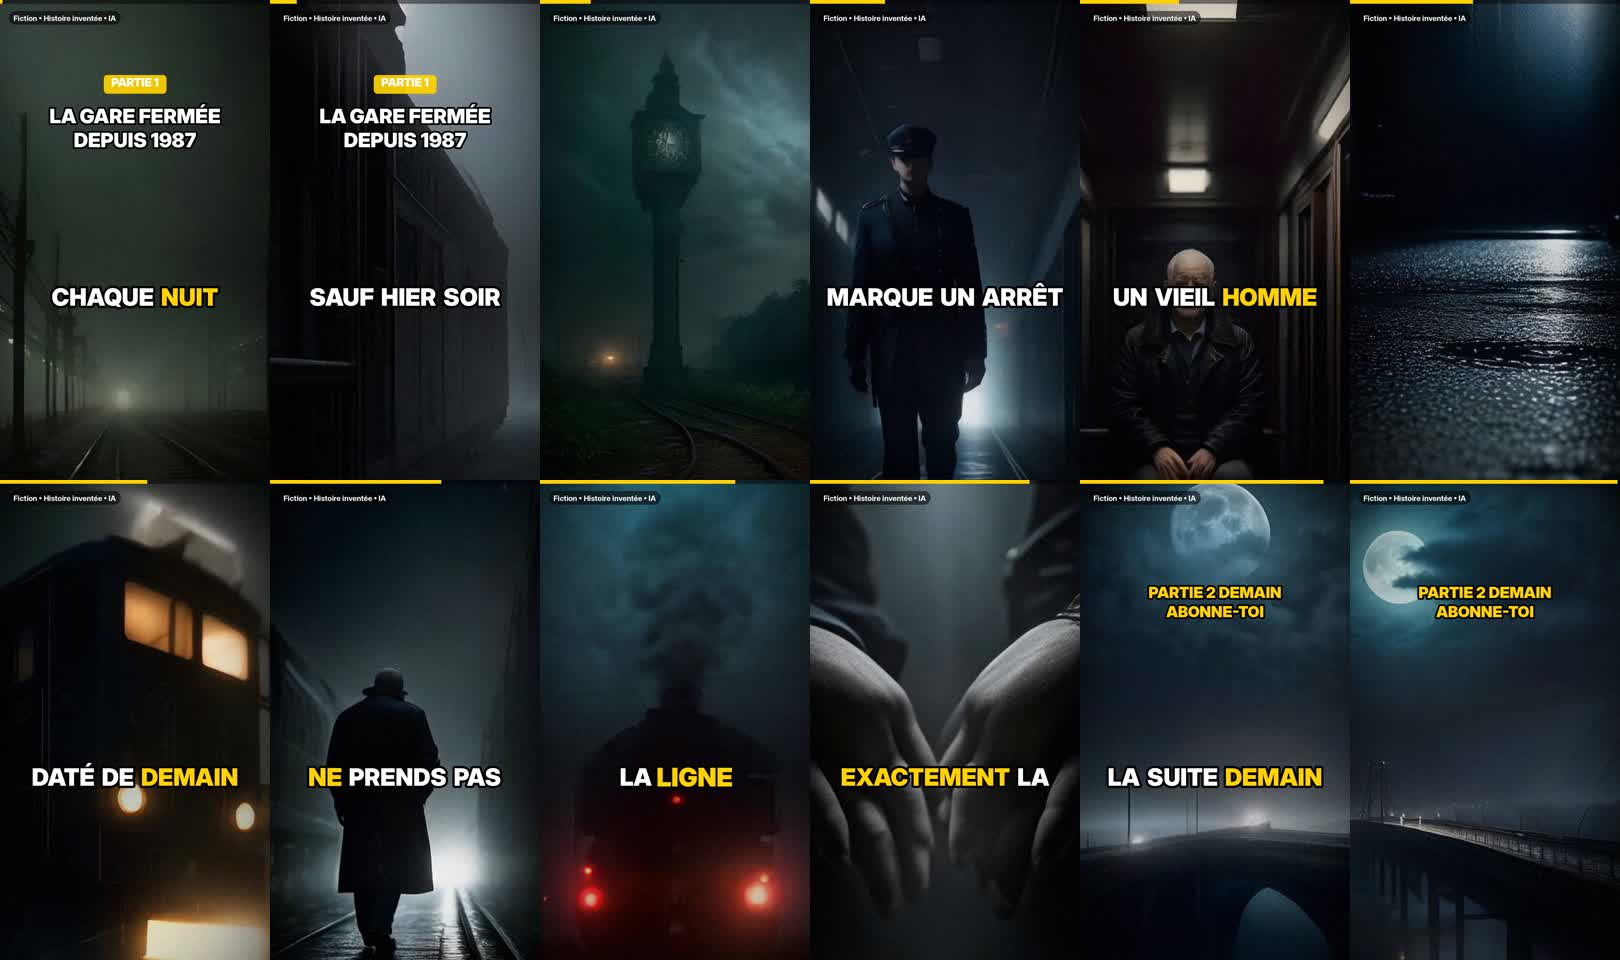
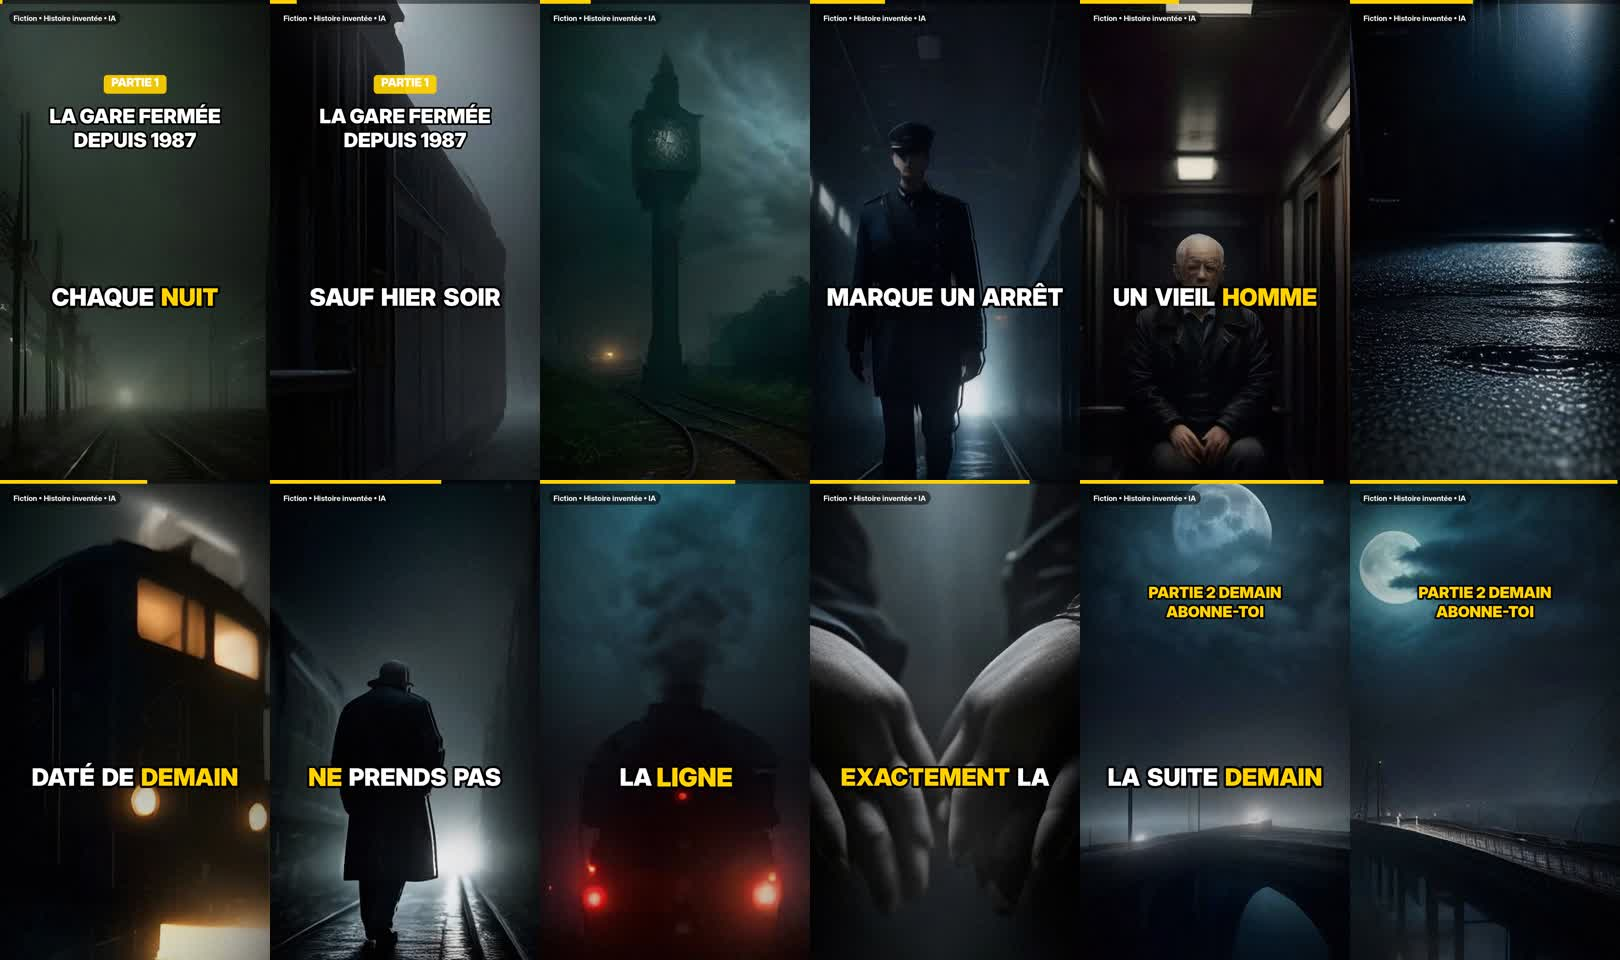
cycle 9: mouvement 3D (profondeur + parallaxe) dans le générateur, vidéos de demain reprogrammées
Claude-Session: https://claude.ai/code/session_01MTp3fYDJizbNruQ4hNct4W

diff --git a/tiktok-auto/generateur/generer.py b/tiktok-auto/generateur/generer.py
@@ -431,6 +431,58 @@ def ken_burns(im: Image.Image, p: float, idx: int) -> Image.Image:
     return im.transform((W, H), Image.AFFINE, (a, 0, x0, 0, a, y0), resample=Image.BICUBIC)
 
 
+# --------------------------------------------------------------------------------------
+# Mouvement 3D (parallaxe) : profondeur estimée par Depth Anything V2 (modèle libre, local, sans compte)
+# --------------------------------------------------------------------------------------
+def compute_depths(img_paths: list[str]) -> list[str | None]:
+    """Calcule une carte de profondeur (0 = loin, 1 = proche) par image. Repli : None (Ken Burns simple)."""
+    try:
+        from transformers import pipeline
+    except ImportError:
+        log("transformers/torch absents : mouvement 3D désactivé (pip install torch --index-url https://download.pytorch.org/whl/cpu transformers opencv-python-headless)")
+        return [None] * len(img_paths)
+    pipe = pipeline("depth-estimation", model="depth-anything/Depth-Anything-V2-Small-hf", device="cpu")
+    out = []
+    for ip in img_paths:
+        im = Image.open(ip).convert("RGB")
+        d = np.asarray(pipe(im.resize((im.width // 2, im.height // 2)))["depth"].resize(im.size, Image.BICUBIC), dtype=np.float32)
+        d = (d - d.min()) / (np.ptp(d) + 1e-6)
+        dp = ip.replace(".png", "_depth.npy")
+        np.save(dp, d.astype(np.float16))
+        out.append(dp)
+    return out
+
+
+def parallax(src: np.ndarray, depth: np.ndarray, p: float, idx: int) -> Image.Image:
+    """Vraie impression de mouvement de caméra : les plans proches bougent plus que le fond."""
+    import cv2
+
+    sh_, sw_ = depth.shape
+    rng = random.Random(idx * 7919)
+    e = 0.5 - 0.5 * math.cos(math.pi * p)
+    z = 1.0 + 0.05 * (e if idx % 2 == 0 else 1 - e)  # léger zoom global
+    ww = sw_ / z
+    a = ww / W
+    x0 = (sw_ - ww) / 2
+    y0 = (sh_ - H * a) / 2
+    if not hasattr(parallax, "grid"):
+        parallax.grid = np.mgrid[0:H, 0:W].astype(np.float32)
+    gy, gx = parallax.grid
+    bx = x0 + gx * a
+    by = y0 + gy * a
+    d = cv2.remap(depth, bx, by, cv2.INTER_LINEAR)
+    dirx = rng.choice([-1, 1]) * rng.uniform(0.6, 1.0)
+    diry = rng.uniform(-0.4, 0.4)
+    amp = 70.0  # pixels de décalage max pour le premier plan
+    push = 0.09 * e  # avancée de caméra (dolly) plus forte sur le premier plan
+    t_ = 2 * e - 1
+    cx, cy = sw_ / 2, sh_ / 2
+    mx = cx + (bx - cx) / (1 + push * d) - dirx * amp * t_ * (d - 0.4)
+    my = cy + (by - cy) / (1 + push * d) - diry * amp * t_ * (d - 0.4)
+    out = cv2.remap(src, mx, my, cv2.INTER_CUBIC, borderMode=cv2.BORDER_REFLECT)
+    return Image.fromarray(out)
+
+
 def draw_text_center(d: ImageDraw.ImageDraw, cx: int, y: int, text: str, f, fill, stroke=8, stroke_fill=(0, 0, 0)):
     bb = d.textbbox((0, 0), text, font=f, stroke_width=stroke)
     d.text((cx - (bb[2] - bb[0]) / 2 - bb[0], y - bb[1]), text, font=f, fill=fill, stroke_width=stroke, stroke_fill=stroke_fill)
@@ -539,6 +591,12 @@ def _render_range(args):
     frame_from, frame_to, ctx_path, out_path = args
     ctx = json.loads(Path(ctx_path).read_text())
     imgs = [Image.open(p) for p in ctx["img_paths"]]
+    arrs = [np.asarray(im.convert("RGB")) for im in imgs]
+    deps = [np.load(dp).astype(np.float32) if dp else None for dp in ctx.get("depth_paths", [None] * len(imgs))]
+
+    def move(i: int, p: float, idx: int) -> Image.Image:
+        return parallax(arrs[i], deps[i], p, idx) if deps[i] is not None else ken_burns(imgs[i], p, idx)
+
     vign = make_vignette()
     rng = np.random.default_rng(frame_from)
     grains = [rng.normal(0, 5, (H // 2, W // 2)).astype(np.float32) for _ in range(6)]
@@ -554,11 +612,11 @@ def _render_range(args):
         cur = next((i for i, s in enumerate(shots) if s["start"] <= t < s["end"]), len(shots) - 1)
         s = shots[cur]
         p = (t - s["start"]) / max(0.01, s["end"] - s["start"])
-        frame = ken_burns(imgs[s["img"]], p, cur)
+        frame = move(s["img"], p, cur)
         if cur > 0 and t - s["start"] < XFADE and shots[cur - 1]["img"] != s["img"]:
             pr = shots[cur - 1]
             pp = (t - pr["start"]) / max(0.01, pr["end"] - pr["start"])
-            prev = ken_burns(imgs[pr["img"]], min(1.0, pp), cur - 1)
+            prev = move(pr["img"], min(1.0, pp), cur - 1)
             frame = Image.blend(prev, frame, (t - s["start"]) / XFADE)
         arr = np.asarray(frame, dtype=np.float32)
         # légère respiration lumineuse
@@ -627,6 +685,8 @@ def main():
     with ThreadPoolExecutor(1) as ex:  # 1 seule requête à la fois (limite du service gratuit)
         img_paths = list(ex.map(_get, enumerate(keys)))
     log(f"{len(img_paths)} visuels prêts pour {len(shots)} plans")
+    depth_paths = compute_depths(img_paths) if story.get("mouvement_3d", True) else [None] * len(img_paths)
+    log("mouvement 3D : " + ("activé" if any(depth_paths) else "désactivé"))
 
     accent = story.get("couleur", [255, 210, 0])
     serie = story.get("serie")
@@ -634,6 +694,7 @@ def main():
     ctx = {
         "segs": [{k: v for k, v in s.items() if k not in ("texte", "voix", "visuels")} for s in segs],
         "shots": shots,
+        "depth_paths": depth_paths,
         "chunks": group_words(words),
         "total": total,
         "img_paths": img_paths,

diff --git a/tiktok-auto/outils/publier.py b/tiktok-auto/outils/publier.py
@@ -181,14 +181,45 @@ def programmer(story_path: Path, maintenant: bool = False):
     print(json.dumps({"ok": True, "programme_le": slot.isoformat(), "postSubmissionId": res.get("postSubmissionId")}, ensure_ascii=False))
 
 
+def reprogrammer(story_path: Path):
+    """Remplace une vidéo déjà programmée (non publiée) par sa nouvelle version, au même créneau."""
+    story = json.loads(story_path.read_text(encoding="utf-8"))
+    pubs = load_pubs()
+    entry = next((p for p in pubs if p["id"] == story["id"] and p.get("statut") == "scheduled"), None)
+    if not entry:
+        raise RuntimeError("aucune programmation en attente pour cette histoire")
+    when = datetime.fromisoformat(entry["programme_le"])
+    items = check(api("GET", "/schedules")).get("items", [])
+    target = [it for it in items if datetime.fromisoformat(it["scheduledAt"].replace("Z", "+00:00")) == when]
+    if len(target) != 1:
+        raise RuntimeError(f"programmation introuvable ou ambiguë ({len(target)} trouvée(s))")
+    video = ROOT / "videos" / f"{story['id']}.mp4"
+    verif = video.with_suffix(".verif.json")
+    if not verif.exists() or not json.loads(verif.read_text())["ok"]:
+        raise RuntimeError("la nouvelle version n'a pas passé outils/verifier.py")
+    url = upload(video)  # envoi d'abord : si ça échoue, l'ancienne programmation reste en place
+    r = requests.delete(BASE + f"/schedules/{target[0]['id']}", headers={"blotato-api-key": load_key()}, timeout=60, verify=VERIFY)
+    if r.status_code >= 400:
+        raise RuntimeError(f"suppression de l'ancienne programmation impossible : HTTP {r.status_code}")
+    draft = target[0]["draft"]
+    draft["content"]["mediaUrls"] = [url]
+    res = check(api("POST", "/posts", json={"post": draft, "scheduledTime": when.isoformat()}))
+    entry["postSubmissionId"] = res.get("postSubmissionId")
+    entry["note"] = (entry.get("note", "") + " ; remplacée par une nouvelle version (mouvement 3D)").strip(" ;")
+    save_pubs(pubs)
+    print(json.dumps({"ok": True, "programme_le": when.isoformat(), "postSubmissionId": res.get("postSubmissionId")}, ensure_ascii=False))
+
+
 def statut():
     pubs = load_pubs()
     for p in pubs:
         if p.get("postSubmissionId") and p.get("statut") in ("scheduled", "in-progress"):
             j = check(api("GET", f"/posts/{p['postSubmissionId']}"))
             p["statut"] = j.get("status", p["statut"])
-            if j.get("publicUrl"):
+            if j.get("publicUrl") and "/video/" in j["publicUrl"]:
                 p["url"] = j["publicUrl"]
+            elif j.get("status") == "published" and "/video/" not in p.get("url", ""):
+                p["url"] = ""  # Blotato n'a donné que le profil : stats.py retrouvera la vidéo par sa légende
             if j.get("errorMessage"):
                 p["erreur"] = j["errorMessage"]
     save_pubs(pubs)
@@ -202,6 +233,8 @@ def main():
             print(json.dumps(check(api("GET", "/users/me/accounts", params={"platform": "tiktok"})), ensure_ascii=False, indent=2))
         elif cmd == "programmer":
             programmer(Path(sys.argv[2]), maintenant="--maintenant" in sys.argv)
+        elif cmd == "reprogrammer":
+            reprogrammer(Path(sys.argv[2]))
         elif cmd == "statut":
             statut()
         else:

diff --git a/tiktok-auto/outils/stats.py b/tiktok-auto/outils/stats.py
@@ -64,6 +64,43 @@ const { chromium } = require('playwright');
 """
 
 
+EMBED_JS = r"""
+const { chromium } = require('playwright');
+(async () => {
+  const b = await chromium.launch(); const p = await b.newPage({ locale: 'fr-FR' });
+  await p.goto('https://www.tiktok.com/embed/@' + process.argv[2], { waitUntil: 'domcontentloaded', timeout: 60000 });
+  await p.waitForTimeout(8000);
+  const st = await p.evaluate(() => { const s = document.querySelector('script#__FRONTITY_CONNECT_STATE__'); return s ? s.textContent : null; });
+  let out = [];
+  try { const j = JSON.parse(st); const d = j.source.data['/embed/@' + process.argv[2]]; out = d.videoList.map(v => ({ id: v.id, desc: v.desc })); } catch (e) {}
+  console.log(JSON.stringify(out)); await b.close();
+})();
+"""
+
+
+def resolve_missing_urls(user: str, pubs: list, pubs_f: Path):
+    """Pour les vidéos publiées dont Blotato n'a renvoyé que l'URL du profil, retrouve l'ID via la légende."""
+    todo = [x for x in pubs if x.get("statut") == "published" and "/video/" not in (x.get("url") or "")]
+    if not todo:
+        return
+    js = ROOT / "cache" / "embed.js"
+    js.write_text(EMBED_JS)
+    r = subprocess.run(["node", str(js), user], capture_output=True, text=True, timeout=150)
+    try:
+        vids = json.loads(next(l for l in r.stdout.splitlines()[::-1] if l.startswith("[")))
+    except (StopIteration, json.JSONDecodeError):
+        return
+    for x in todo:
+        try:
+            leg = json.loads((ROOT / "histoires" / f"{x['id']}.json").read_text(encoding="utf-8"))["legende"][:40]
+        except (OSError, KeyError, json.JSONDecodeError):
+            continue
+        hit = next((v for v in vids if (v.get("desc") or "").startswith(leg)), None)
+        if hit:
+            x["url"] = f"https://www.tiktok.com/@{user}/video/{hit['id']}"
+    pubs_f.write_text(json.dumps(pubs, ensure_ascii=False, indent=2) + "\n", encoding="utf-8")
+
+
 def main():
     cfg = json.loads((ROOT / "config.json").read_text(encoding="utf-8"))
     user = (cfg.get("tiktok_username") or "").lstrip("@")
@@ -75,6 +112,7 @@ def main():
     js.write_text(JS)
     pubs_f = ROOT / "stats" / "publications.json"
     pubs = json.loads(pubs_f.read_text(encoding="utf-8")) if pubs_f.exists() else []
+    resolve_missing_urls(user, pubs, pubs_f)
     urls = [x["url"] for x in pubs if x.get("statut") == "published" and x.get("url")][-10:]
     r = subprocess.run(["node", str(js), user, ",".join(urls)], capture_output=True, text=True, timeout=400)
     line = next((l for l in r.stdout.splitlines()[::-1] if l.startswith("{")), "{}")

diff --git a/tiktok-auto/JOURNAL.md b/tiktok-auto/JOURNAL.md
@@ -193,3 +193,19 @@ Trouvées via l'intégration publique du profil (le profil compte 5 vidéos, don
 Son : « son original » dans les deux cas. Contenu non visible sans connexion (non contourné).
 Lecture : la 1ʳᵉ a **10,7 % de j'aime/vue** (20/187) en ~4 h, contre 1 à 3 % pour nos vidéos → signal à suivre.
 Ces vidéos ne sont pas suivies par l'automatisation (aucune action de ma part sur elles).
+
+### 2026-11-20 ~20 h 40 (Paris) — Cycle 9 (automatique) + demandes de l'utilisateur
+- L'utilisateur a fourni (a) sa vidéo POV « jeton » (8 s, perso IA animé) et (b) une image ChatGPT d'horreur.
+  Image non utilisable telle quelle : tueur masqué façon Michael Myers (personnage protégé), couteau + sang
+  (risque de modération), et aperçu basse définition (568x630). Correction demandée à l'utilisateur.
+- Génération vidéo IA « vraie animation » : Canva = offre payante requise ; Hugging Face (Wan 2.2, FLUX) =
+  quota anonyme épuisé ; l'utilisateur refuse de créer un compte → **mouvement 3D local sans compte** :
+  profondeur Depth Anything V2 (modèle libre) + parallaxe + caméra. Démo envoyée (non publiée).
+- **Générateur : mouvement 3D intégré à toutes les vidéos** (Ken Burns en repli). Rendu ~5 min, inchangé.
+- Dernier Train P1 et « Le livre d'or » (demain) refaits en 3D et **reprogrammés aux mêmes créneaux**
+  (nouvelle commande `publier.py reprogrammer`).
+- L'Étage 4 P3 publiée à 18 h 45 : https://www.tiktok.com/@rt_production_/video/7710311218245864726
+  (Blotato n'avait renvoyé que l'URL du profil → `stats.py` retrouve désormais l'ID via la légende).
+- Stats : 402 abonnés. P2 286 vues, P1 v2 272, La pellicule 257. Toujours 0 commentaire.
+- Prochain cycle : nouvelle série (épisodes ~70 s, mouvement 3D) pour le 24/11 ; mise à niveau 3D de
+  Dernier Train P2/P3 si le temps le permet.

diff --git a/tiktok-auto/CLAUDE.md b/tiktok-auto/CLAUDE.md
@@ -68,6 +68,7 @@ Dossier : `tiktok-auto/` dans le dépôt `claude-video`, branche `claude/tiktok-
 cd /home/user/claude-video && git fetch origin claude/tiktok-autonomous-growth-8p5psf \
   && git checkout claude/tiktok-autonomous-growth-8p5psf && git pull --no-edit origin claude/tiktok-autonomous-growth-8p5psf
 cd tiktok-auto && pip install -q -r requirements.txt
+pip install -q --index-url https://download.pytorch.org/whl/cpu torch && pip install -q transformers opencv-python-headless  # mouvement 3D
 ```
 
 ### 1. Lire
@@ -129,6 +130,12 @@ Puis OUVRIR `videos/<id>.planche.jpg` (outil Read) et vérifier : sous-titres li
 cohérents avec le texte, pas d'artefact choquant, pas de texte parasite. Si un visuel est raté,
 changer sa description (ou ajouter `"graine": N` n'est pas prévu : reformuler) et régénérer.
 Toute faute signalée par LanguageTool est corrigée dans le JSON puis on régénère.
+
+### 6 bis. Mouvement
+Le public et l'algorithme veulent du MOUVEMENT (consigne de l'utilisateur, 20/11) : le générateur applique un
+mouvement de caméra 3D (profondeur Depth Anything V2 + parallaxe) à chaque plan. Vérifier dans le journal du rendu
+« mouvement 3D : activé » ; sinon installer torch/transformers/opencv (étape 0) et refaire la vidéo.
+Pour remplacer une vidéo déjà programmée : `python3 outils/publier.py reprogrammer histoires/<id>.json`.
 
 ### 7. Programmer
 ```bash
